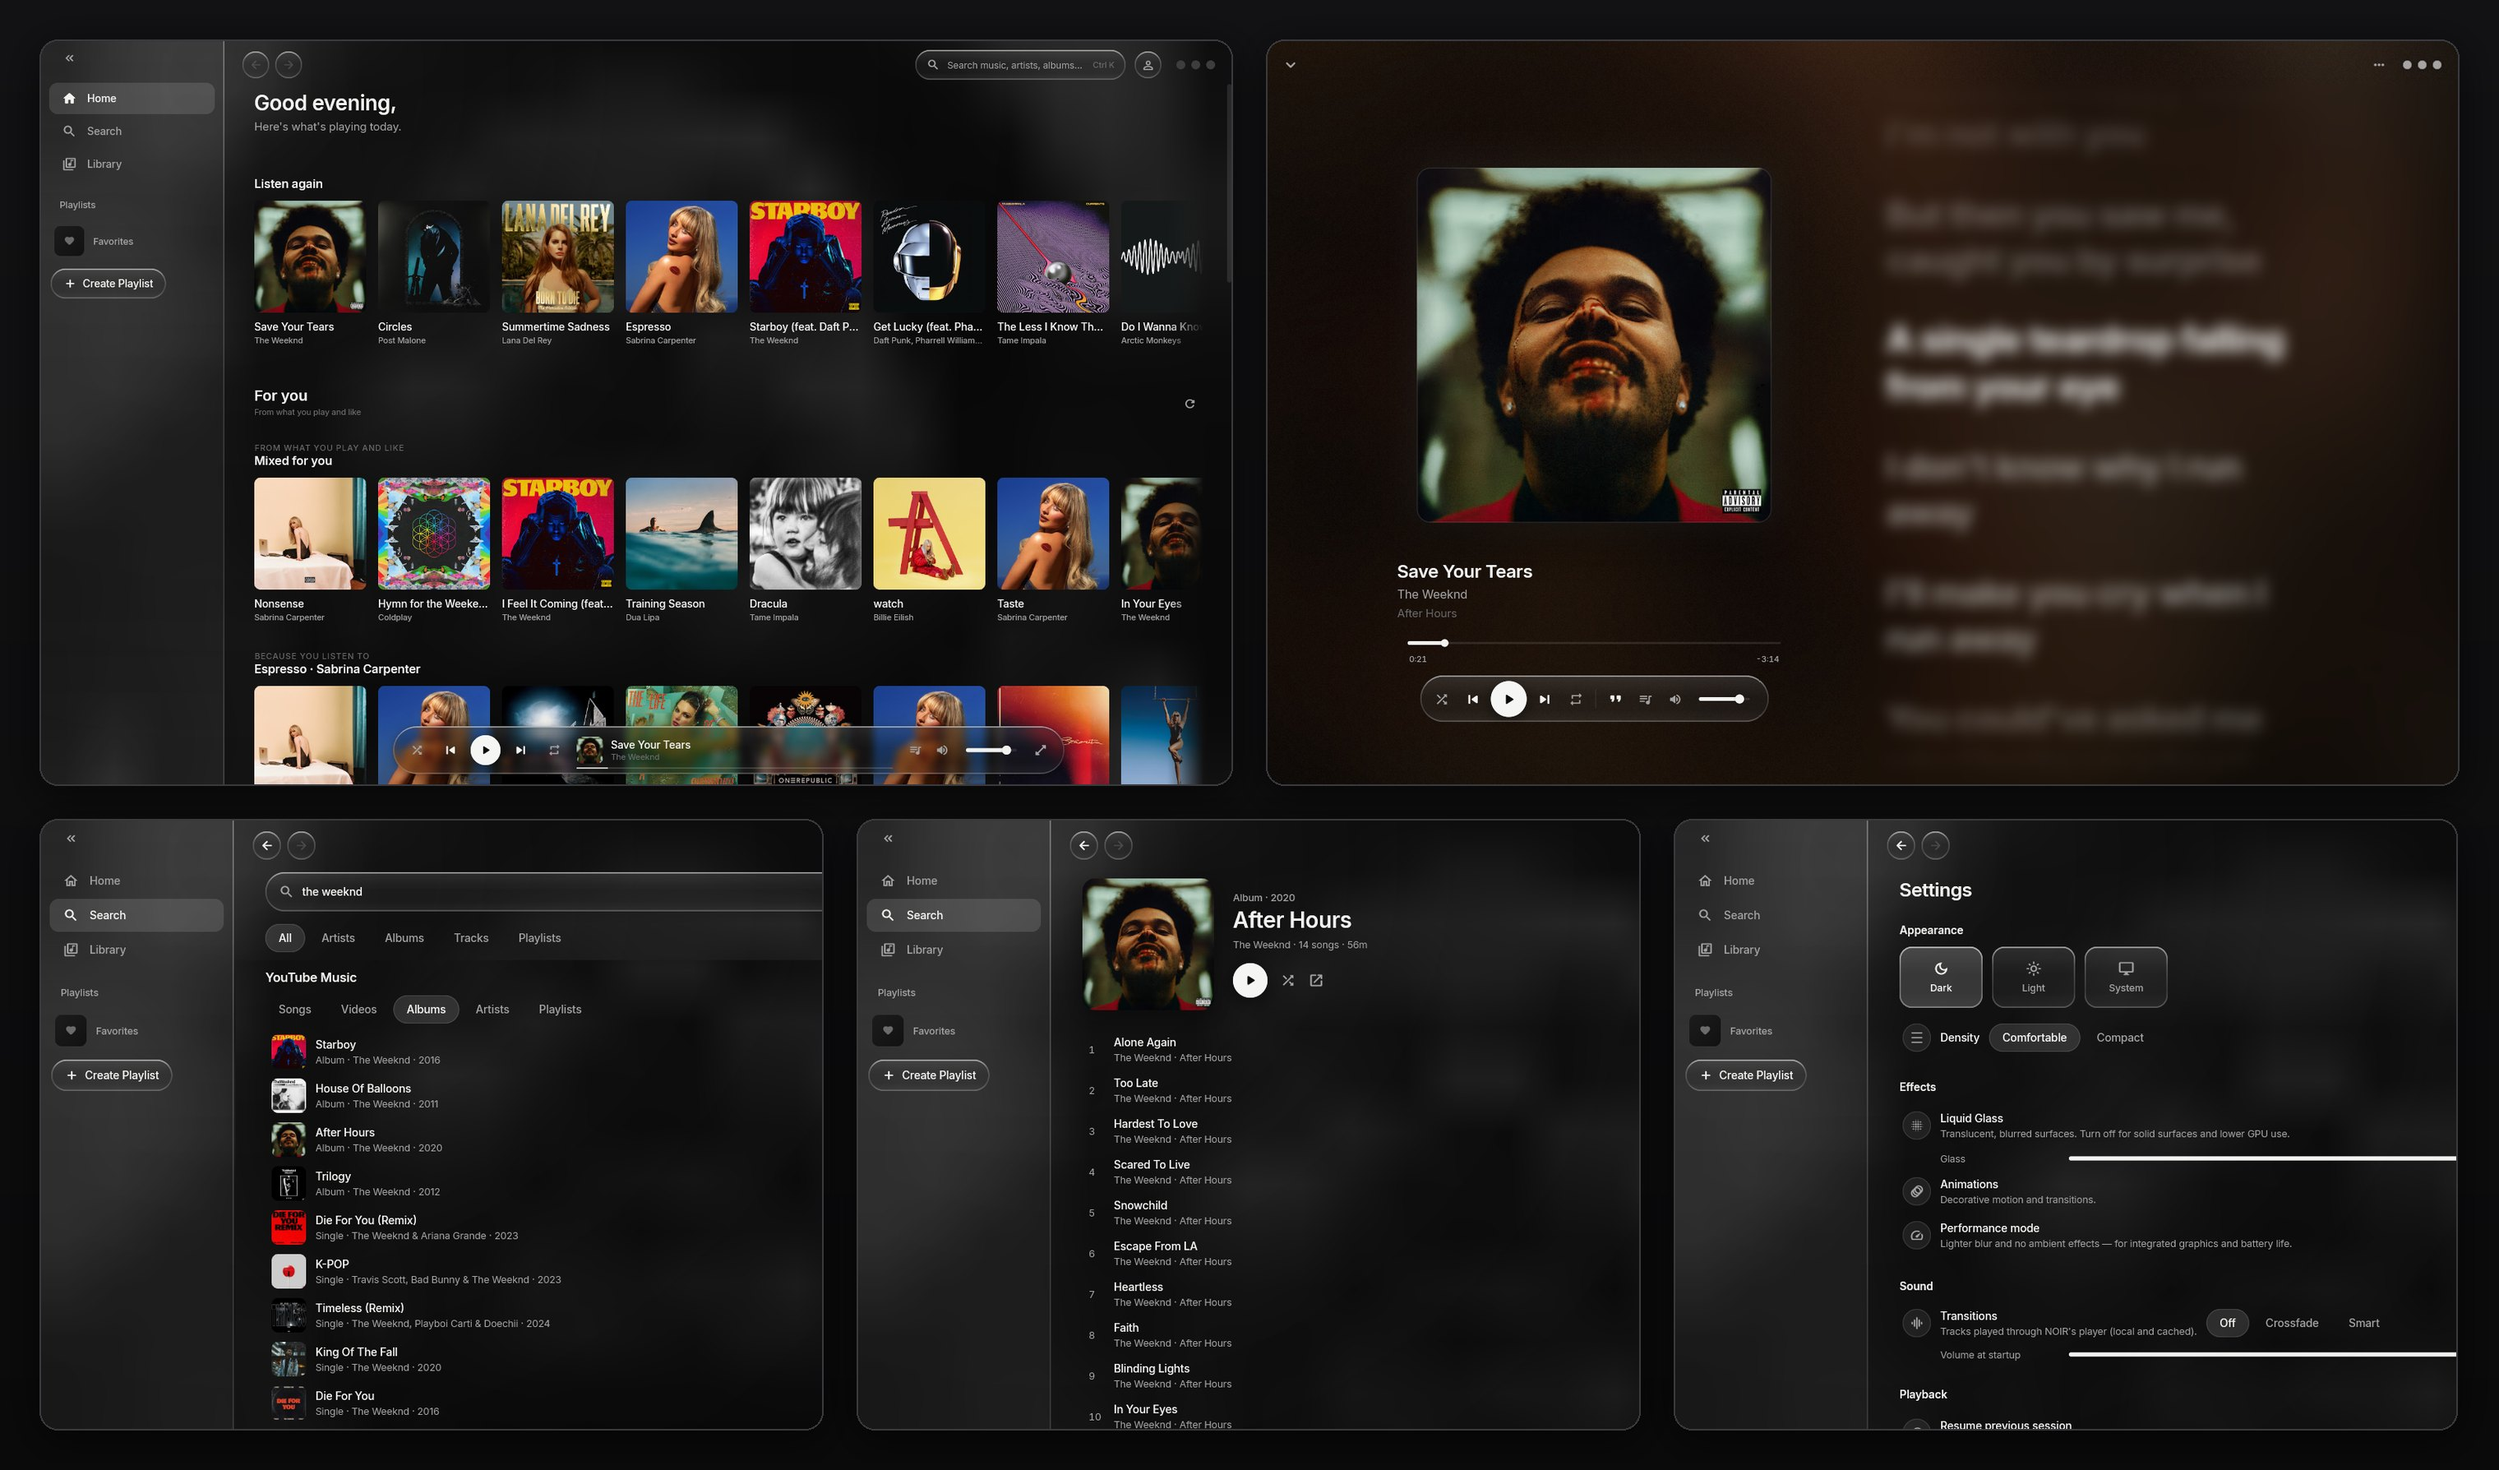
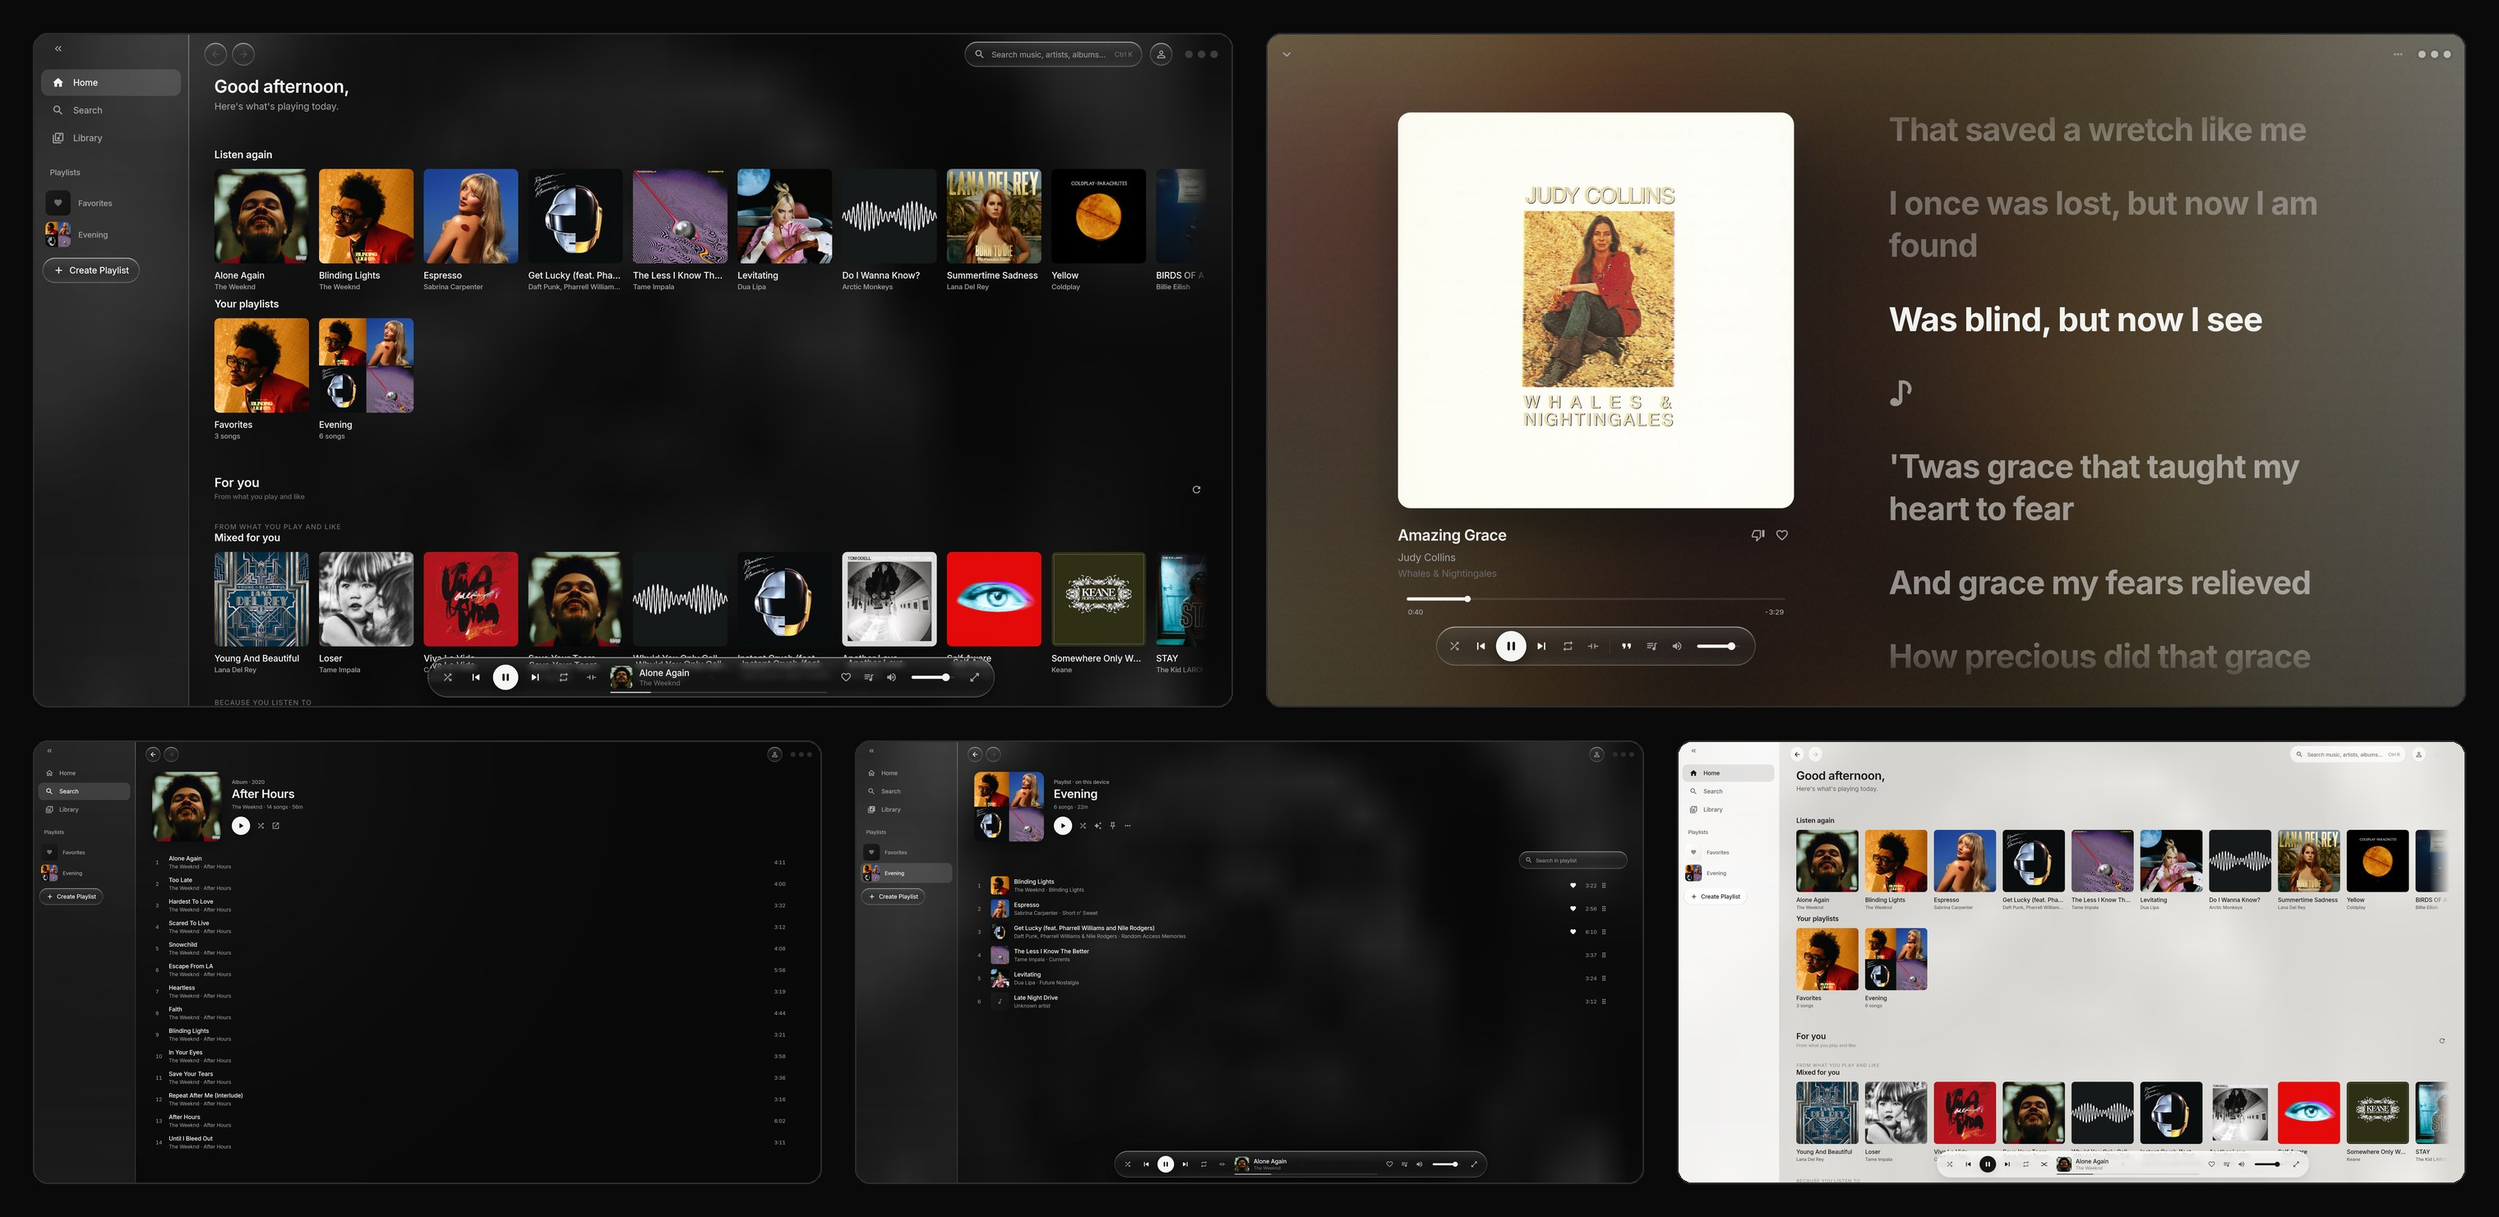
Releases for Windows; new screenshots; download section
A tag like v1.0.0 builds the public Windows app in CI, zips it and
publishes it as a GitHub release with the notes from
.github/release-notes. README gets a release badge, a Download section
and screenshots from a fresh profile; the public build's limits are
spelled out. Locally installed agent skills stay out of the repo.

diff --git a/README.md b/README.md
@@ -3,6 +3,7 @@
 # <img src="docs/logo.svg" width="40" alt=""> NOIR
 
 [![Build](https://img.shields.io/github/actions/workflow/status/MaximkaCoder/Noir/ci.yml?branch=main&style=for-the-badge&label=build)](https://github.com/MaximkaCoder/Noir/actions/workflows/ci.yml)
+[![Release](https://img.shields.io/github/v/release/MaximkaCoder/Noir?style=for-the-badge&label=release)](https://github.com/MaximkaCoder/Noir/releases/latest)
 [![Platform](https://img.shields.io/badge/platform-windows-0078D4?style=for-the-badge)](#platforms)
 [![Flutter](https://img.shields.io/badge/flutter-3.47.8-02569B?style=for-the-badge)](https://flutter.dev)
 [![License](https://img.shields.io/badge/license-MIT-lightgrey?style=for-the-badge)](LICENSE)
@@ -25,10 +26,16 @@ YouTube Data API for your account. What changes is the app around it: a
 native interface that answers the moment you click, built for a computer
 rather than a browser tab. It also plays your own audio files.
 
-![NOIR on Windows: Home, Now Playing with lyrics, search, an album, settings](docs/screenshots/noir.jpg)
+![NOIR on Windows: Home, Now Playing with synced lyrics, an album, a playlist on this PC, the light theme](docs/screenshots/noir.jpg)
 
-<sub>Screenshots from the Windows build. Lyrics are blurred in the image on
-purpose.</sub>
+<sub>Screenshots from the Windows build with a fresh profile.</sub>
+
+## Download
+
+The Windows build is on the [Releases](https://github.com/MaximkaCoder/Noir/releases/latest)
+page: unpack the zip and run `noir.exe`. It needs Windows 10 or 11 (64-bit) and
+the WebView2 Runtime, which most PCs already have. Google sign-in is not part of
+the public build yet; everything else works without an account.
 
 ## Why this exists
 
@@ -81,7 +88,8 @@ Between tracks NOIR can do a plain crossfade or a "smart" transition that
 picks the moment and the type of blend for each pair of songs. Disco goes
 further, like a DJ set: each song plays for two or three minutes and the
 next one comes in on its drop. All three work on tracks played through
-NOIR's own audio player.
+NOIR's own audio player. The public build has the crossfade; Smart and Disco
+are not in it yet.
 
 Surprise me, next to Shuffle on a playlist, starts on a random song and then
 keeps choosing whichever song from that playlist mixes best into the one

diff --git a/.github/release-notes/v1.0.0.md b/.github/release-notes/v1.0.0.md
@@ -1,0 +1,22 @@
+The first public build of NOIR for Windows.
+
+## Install
+
+Download `NOIR-v1.0.0-windows-x64.zip` below, unpack it anywhere and run `noir.exe`. There is no installer. Your library, playlists and settings are kept in `%APPDATA%\NOIR\NOIR`, so a newer version can simply replace the folder.
+
+Needs Windows 10 or 11 (64-bit) and the Microsoft Edge WebView2 Runtime, which Windows 11 and most Windows 10 PCs already have. The build isn't code-signed yet, so SmartScreen may ask before the first start: More info, then Run anyway.
+
+## In this build
+
+- YouTube Music home, search, albums, artists, playlists and radio, without an account
+- Now Playing with time-synced lyrics, as lines or karaoke
+- Playlists and favorites on your PC that hold YouTube Music songs and your own files together
+- Your own MP3, M4A, FLAC, OGG, Opus and WAV files, with tags and covers
+- Crossfade between your own files
+- Liquid Glass or solid surfaces, dark and light themes, Windows media keys
+
+## Not yet
+
+- Google sign-in, so no sync with your YouTube playlists and likes. This build ships without a Google client.
+- Smart and Disco transitions.
+- Android, macOS and iOS builds.
